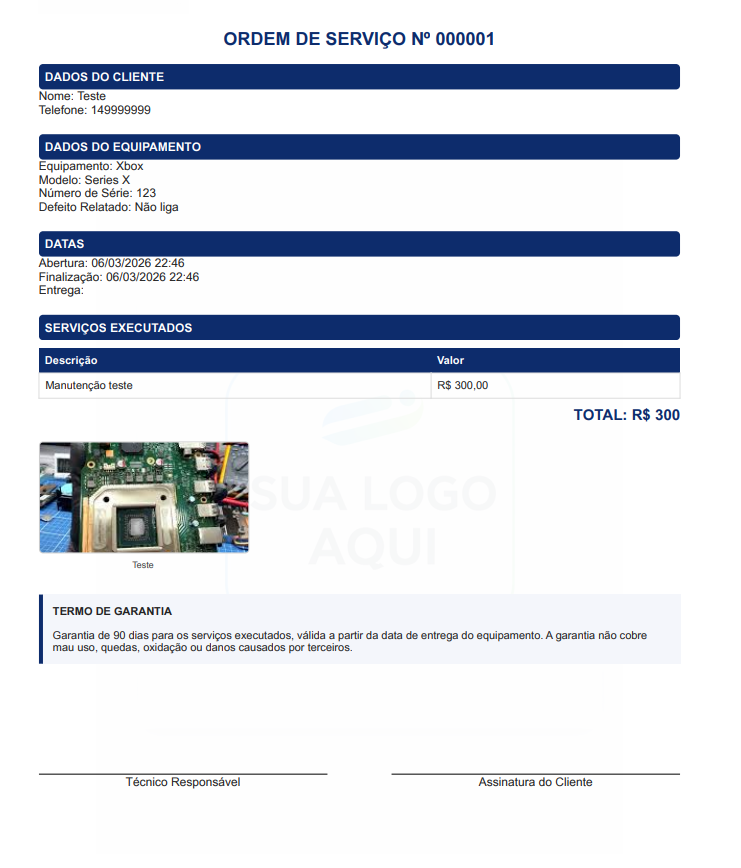
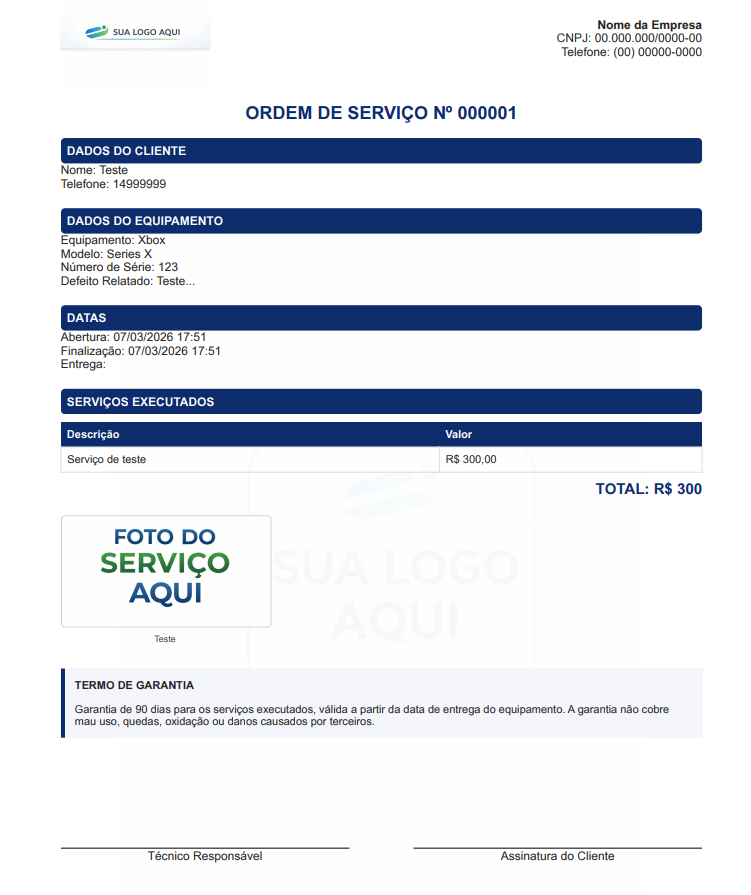
feat: finishing security details

diff --git a/core/settings.py b/core/settings.py
@@ -151,8 +151,8 @@ JAZZMIN_SETTINGS = {
     "site_title": "Sistema Ordem de Serviço",
     "site_header": "Sistema Ordem de Serviço",
     "site_brand": "OS Admin",
-    "site_logo": "img/logo_principal.png",  
-    "login_logo": "img/logo_principal.png", 
+    "site_logo": "{{ logo_principal_path }}",  
+    "login_logo": "{{ logo_principal_path }}", 
     "site_logo_classes": "img-circle elevation-3",  
     "welcome_sign": "Bem-vindo ao Sistema",
 
